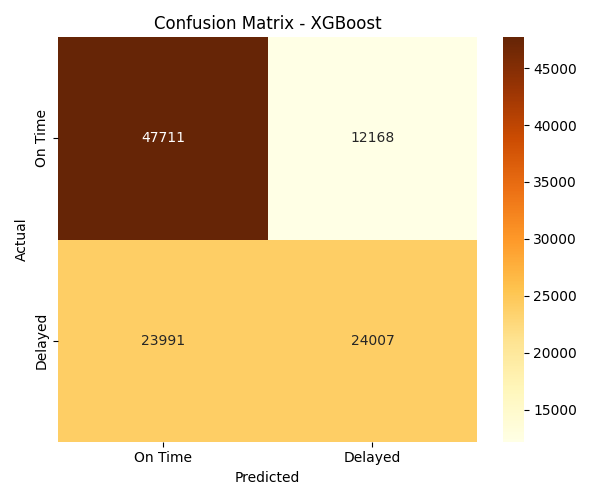
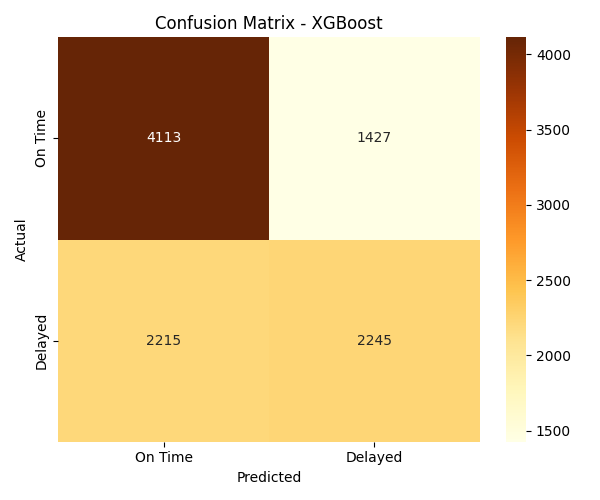
UI updates

diff --git a/templates/index.html b/templates/index.html
@@ -1026,7 +1026,7 @@
             Predict Flight Delays
             <span class="gold-text">Before They Happen</span>
         </h1>
-        <p>A machine learning system trained on half a million real US flight records — using Logistic Regression, Polynomial Regression, and Forward Feature Selection to predict delays with measurable confidence.</p>
+        <p>A machine learning system trained on half a million real US flight records — using Logistic Regression, Polynomial Regression, XGBoost, and Forward Feature Selection — with KMeans Delay Cluster Profiling to predict delays with measurable confidence.</p>
         <div class="hero-buttons">
             <a href="#predictor" class="btn-primary">Start Predicting →</a>
             <a href="#how" class="btn-outline">How It Works</a>
@@ -1037,7 +1037,7 @@
 <!-- TICKER -->
 <div class="ticker">
     <div class="ticker-inner">
-        ✈ SOUTHWEST AIRLINES · HIGHEST DELAY RATE &nbsp;&nbsp;|&nbsp;&nbsp; ⏰ LATER FLIGHTS = HIGHER DELAY RISK &nbsp;&nbsp;|&nbsp;&nbsp; 📅 SATURDAY = SAFEST DAY TO FLY &nbsp;&nbsp;|&nbsp;&nbsp; 🛫 MDW AIRPORT = HIGHEST RISK DEPARTURE &nbsp;&nbsp;|&nbsp;&nbsp; 📊 539,383 FLIGHTS ANALYZED &nbsp;&nbsp;|&nbsp;&nbsp; ⚡ 62.8% MODEL ACCURACY &nbsp;&nbsp;|&nbsp;&nbsp; 🔬 605 FEATURES REDUCED TO 10 &nbsp;&nbsp;|&nbsp;&nbsp;
+        ✈ SOUTHWEST AIRLINES · HIGHEST DELAY RATE &nbsp;&nbsp;|&nbsp;&nbsp; ⏰ LATER FLIGHTS = HIGHER DELAY RISK &nbsp;&nbsp;|&nbsp;&nbsp; 📅 SATURDAY = SAFEST DAY TO FLY &nbsp;&nbsp;|&nbsp;&nbsp; 🛫 MDW AIRPORT = HIGHEST RISK DEPARTURE &nbsp;&nbsp;|&nbsp;&nbsp; 📊 539,383 FLIGHTS ANALYZED &nbsp;&nbsp;|&nbsp;&nbsp; ⚡ 62.8% MODEL ACCURACY &nbsp;&nbsp;|&nbsp;&nbsp; 🔬 605 FEATURES REDUCED TO 50 &nbsp;&nbsp;|&nbsp;&nbsp;
         ✈ SOUTHWEST AIRLINES · HIGHEST DELAY RATE &nbsp;&nbsp;|&nbsp;&nbsp; ⏰ LATER FLIGHTS = HIGHER DELAY RISK &nbsp;&nbsp;|&nbsp;&nbsp; 📅 SATURDAY = SAFEST DAY TO FLY &nbsp;&nbsp;|&nbsp;&nbsp; 🛫 MDW AIRPORT = HIGHEST RISK DEPARTURE &nbsp;&nbsp;|&nbsp;&nbsp; 📊 539,383 FLIGHTS ANALYZED &nbsp;&nbsp;|&nbsp;&nbsp; ⚡ 62.8% MODEL ACCURACY &nbsp;&nbsp;|&nbsp;&nbsp; 🔬 605 FEATURES REDUCED TO 10 &nbsp;&nbsp;|&nbsp;&nbsp;
     </div>
 </div>
@@ -1074,7 +1074,7 @@
 <div class="section fade-up" id="how">
     <div class="section-label">⚙ Process</div>
     <h2>How The Model Works</h2>
-    <p class="desc">A rigorous four-stage machine learning pipeline built from scratch on real-world airline data.</p>
+    <p class="desc">A rigorous six-stage machine learning pipeline built from scratch on real-world airline data.</p>
     <div class="steps">
         <div class="step-card fade-up">
             <div class="step-number">1</div>
@@ -1089,7 +1089,7 @@
         <div class="step-card fade-up">
             <div class="step-number">3</div>
             <h3>Forward Selection</h3>
-            <p>SelectKBest with f_classif scoring reduces 605 features to the 10 most statistically significant — cutting model complexity by 98%.</p>
+            <p>SelectKBest with f_classif scoring reduces 605 features to the 50 most statistically significant — cutting model complexity by 92%.</p>
         </div>
         <div class="step-card fade-up">
             <div class="step-number">4</div>
@@ -1103,8 +1103,18 @@
         </div>
         <div class="step-card fade-up">
             <div class="step-number">6</div>
+            <h3>XGBoost Classifier</h3>
+            <p>Gradient boosted ensemble with 300 estimators, max depth 8, learning rate 0.1. Calibrated with sigmoid method for reliable probability scores. Best performing model in the pipeline.</p>
+        </div>
+        <div class="step-card fade-up">
+            <div class="step-number">7</div>
+            <h3>Delay Cluster Profiling</h3>
+            <p>KMeans clustering (k=3) groups flights into Low Risk, Moderate Risk, and High Risk delay profiles — revealing hidden patterns across routes, airlines, and departure times.</p>
+        </div>
+        <div class="step-card fade-up">
+            <div class="step-number">8</div>
             <h3>Flask Deployment</h3>
-            <p>Trained models serialized with Joblib and served via Flask REST API. Real-time predictions with confidence scores through a premium web interface.</p>
+            <p>All models serialized with Joblib and served via Flask REST API. Real-time predictions with confidence scores and cluster profiling through a live web interface.</p>
         </div>
     </div>
 </div>
@@ -1181,7 +1191,7 @@
     <div class="performance-inner">
         <div class="section-label fade-up">📊 Evaluation</div>
         <h2 class="fade-up" style="font-family:'Playfair Display',serif; font-size:3em; font-weight:700; margin-bottom:15px;">Model Performance</h2>
-        <p class="fade-up" style="color:var(--muted); max-width:520px; line-height:1.8; font-size:0.95em; margin-bottom:0;">Detailed evaluation metrics for both Logistic Regression and Polynomial Regression models.</p>
+        <p class="fade-up" style="color:var(--muted); max-width:520px; line-height:1.8; font-size:0.95em; margin-bottom:0;">Detailed evaluation metrics for Logistic Regression, Polynomial Regression, and XGBoost models.</p>
         <div class="perf-grid">
             <div class="perf-card fade-up">
                 <h3>Logistic Regression</h3>
@@ -1251,6 +1261,29 @@
                 </div>
             </div>
             <div class="perf-card fade-up">
+                <h3>XGBoost <span style="font-size:0.65em; color:var(--gold); background:rgba(245,197,24,0.1); padding:3px 10px; border-radius:20px; margin-left:8px;">Best Model</span></h3>
+                <div class="metric-row">
+                    <span class="metric-label">Accuracy</span>
+                    <div class="metric-bar-wrap"><div class="metric-bar" style="width:0%" data-width="65%"></div></div>
+                    <span class="metric-value">~65%</span>
+                </div>
+                <div class="metric-row">
+                    <span class="metric-label">Estimators</span>
+                    <div class="metric-bar-wrap"><div class="metric-bar" style="width:0%" data-width="100%"></div></div>
+                    <span class="metric-value">300</span>
+                </div>
+                <div class="metric-row">
+                    <span class="metric-label">Max Depth</span>
+                    <div class="metric-bar-wrap"><div class="metric-bar" style="width:0%" data-width="80%"></div></div>
+                    <span class="metric-value">8</span>
+                </div>
+                <div class="metric-row">
+                    <span class="metric-label">Features Used</span>
+                    <div class="metric-bar-wrap"><div class="metric-bar" style="width:0%" data-width="50%"></div></div>
+                    <span class="metric-value">50</span>
+                </div>
+            </div>
+            <div class="perf-card fade-up">
                 <h3>Forward Selection Results</h3>
                 <div class="metric-row">
                     <span class="metric-label">Airline_WN</span>
@@ -1285,7 +1318,7 @@
         <div class="dataset-grid">
             <div class="dataset-info fade-up">
                 <p>The dataset contains 539,383 real US domestic flight records sourced from Kaggle. It covers 18 airlines and hundreds of airports, capturing key flight attributes used to predict delay probability.</p>
-                <p>After One-Hot Encoding of categorical variables, the feature space expanded from 9 original columns to 606 — which Forward Selection then reduced to the 10 most predictive features.</p>
+                <p>After One-Hot Encoding of categorical variables, the feature space expanded from 9 original columns to 606 — which Forward Selection then reduced to the 50 most predictive features for XGBoost training.</p>
                 <div class="dataset-tags">
                     <span class="tag">539,383 Rows</span>
                     <span class="tag">9 Columns</span>
@@ -1423,6 +1456,13 @@
             <div class="result-box {% if 'DELAYED' in prediction %}result-delayed{% else %}result-ontime{% endif %}" id="result-box">
                 <div class="result-title">{{ prediction }}</div>
                 <div class="result-confidence">Prediction Confidence: <span>{{ confidence }}</span></div>
+                {% if false %}
+                <div style="margin-top:18px; padding:16px 20px; background:rgba(245,197,24,0.06); border:1px solid rgba(245,197,24,0.2); border-radius:12px;">
+                    <div style="font-size:0.78em; color:var(--gold); font-weight:700; letter-spacing:1px; text-transform:uppercase; margin-bottom:6px;">Delay Cluster Profile</div>
+                    <div style="font-family:'Playfair Display',serif; font-size:1.1em; font-weight:700; color:white; margin-bottom:6px;">{{ cluster_name }}</div>
+                    <div style="font-size:0.82em; color:var(--muted);">{{ cluster_desc }}</div>
+                </div>
+                {% endif %}
             </div>
             {% endif %}
         </div>
@@ -1463,7 +1503,7 @@
         <div class="insight-card fade-up">
             <div class="insight-icon">⚡</div>
             <h4>98% Feature Reduction</h4>
-            <p>Forward Selection cut 605 features to just 10 — dramatically reducing model complexity while preserving predictive accuracy.</p>
+            <p>Forward Selection cut 605 features to just 50 — reducing model complexity by 92% while preserving predictive accuracy for XGBoost.</p>.
         </div>
     </div>
 </div>
@@ -1538,8 +1578,8 @@
                 <div class="highlight">
                     <div class="highlight-icon">🔬</div>
                     <div class="highlight-text">
-                        <strong>4 Core ML Techniques</strong>
-                        Missing Value Handling, Forward Selection, Logistic Regression & Polynomial Regression.
+                        <strong>6 Core ML Techniques</strong>
+                        Missing Value Handling, Forward Selection, Logistic Regression, Polynomial Regression, XGBoost & Delay Cluster Profiling.
                     </div>
                 </div>
                 <div class="highlight">
@@ -1561,7 +1601,7 @@
                 <div class="about-stat-label">Prediction accuracy achieved</div>
             </div>
             <div class="about-stat">
-                <div class="about-stat-num">605→10</div>
+                <div class="about-stat-num">605→50</div>
                 <div class="about-stat-label">Features reduced by forward selection</div>
             </div>
             <div class="about-stat">
@@ -1582,7 +1622,7 @@
         <a href="#predictor">Predictor</a>
         <a href="#about">About</a>
     </div>
-    <div class="footer-copy">© 2026 SkyPredict · Python · Flask · Scikit-learn · 539K+ Records</div>
+    <div class="footer-copy">© 2026 SkyPredict · Powered by XGBoost · Flask · Scikit-learn · 539K+ Records</div>
 </footer>
 
 <script>
